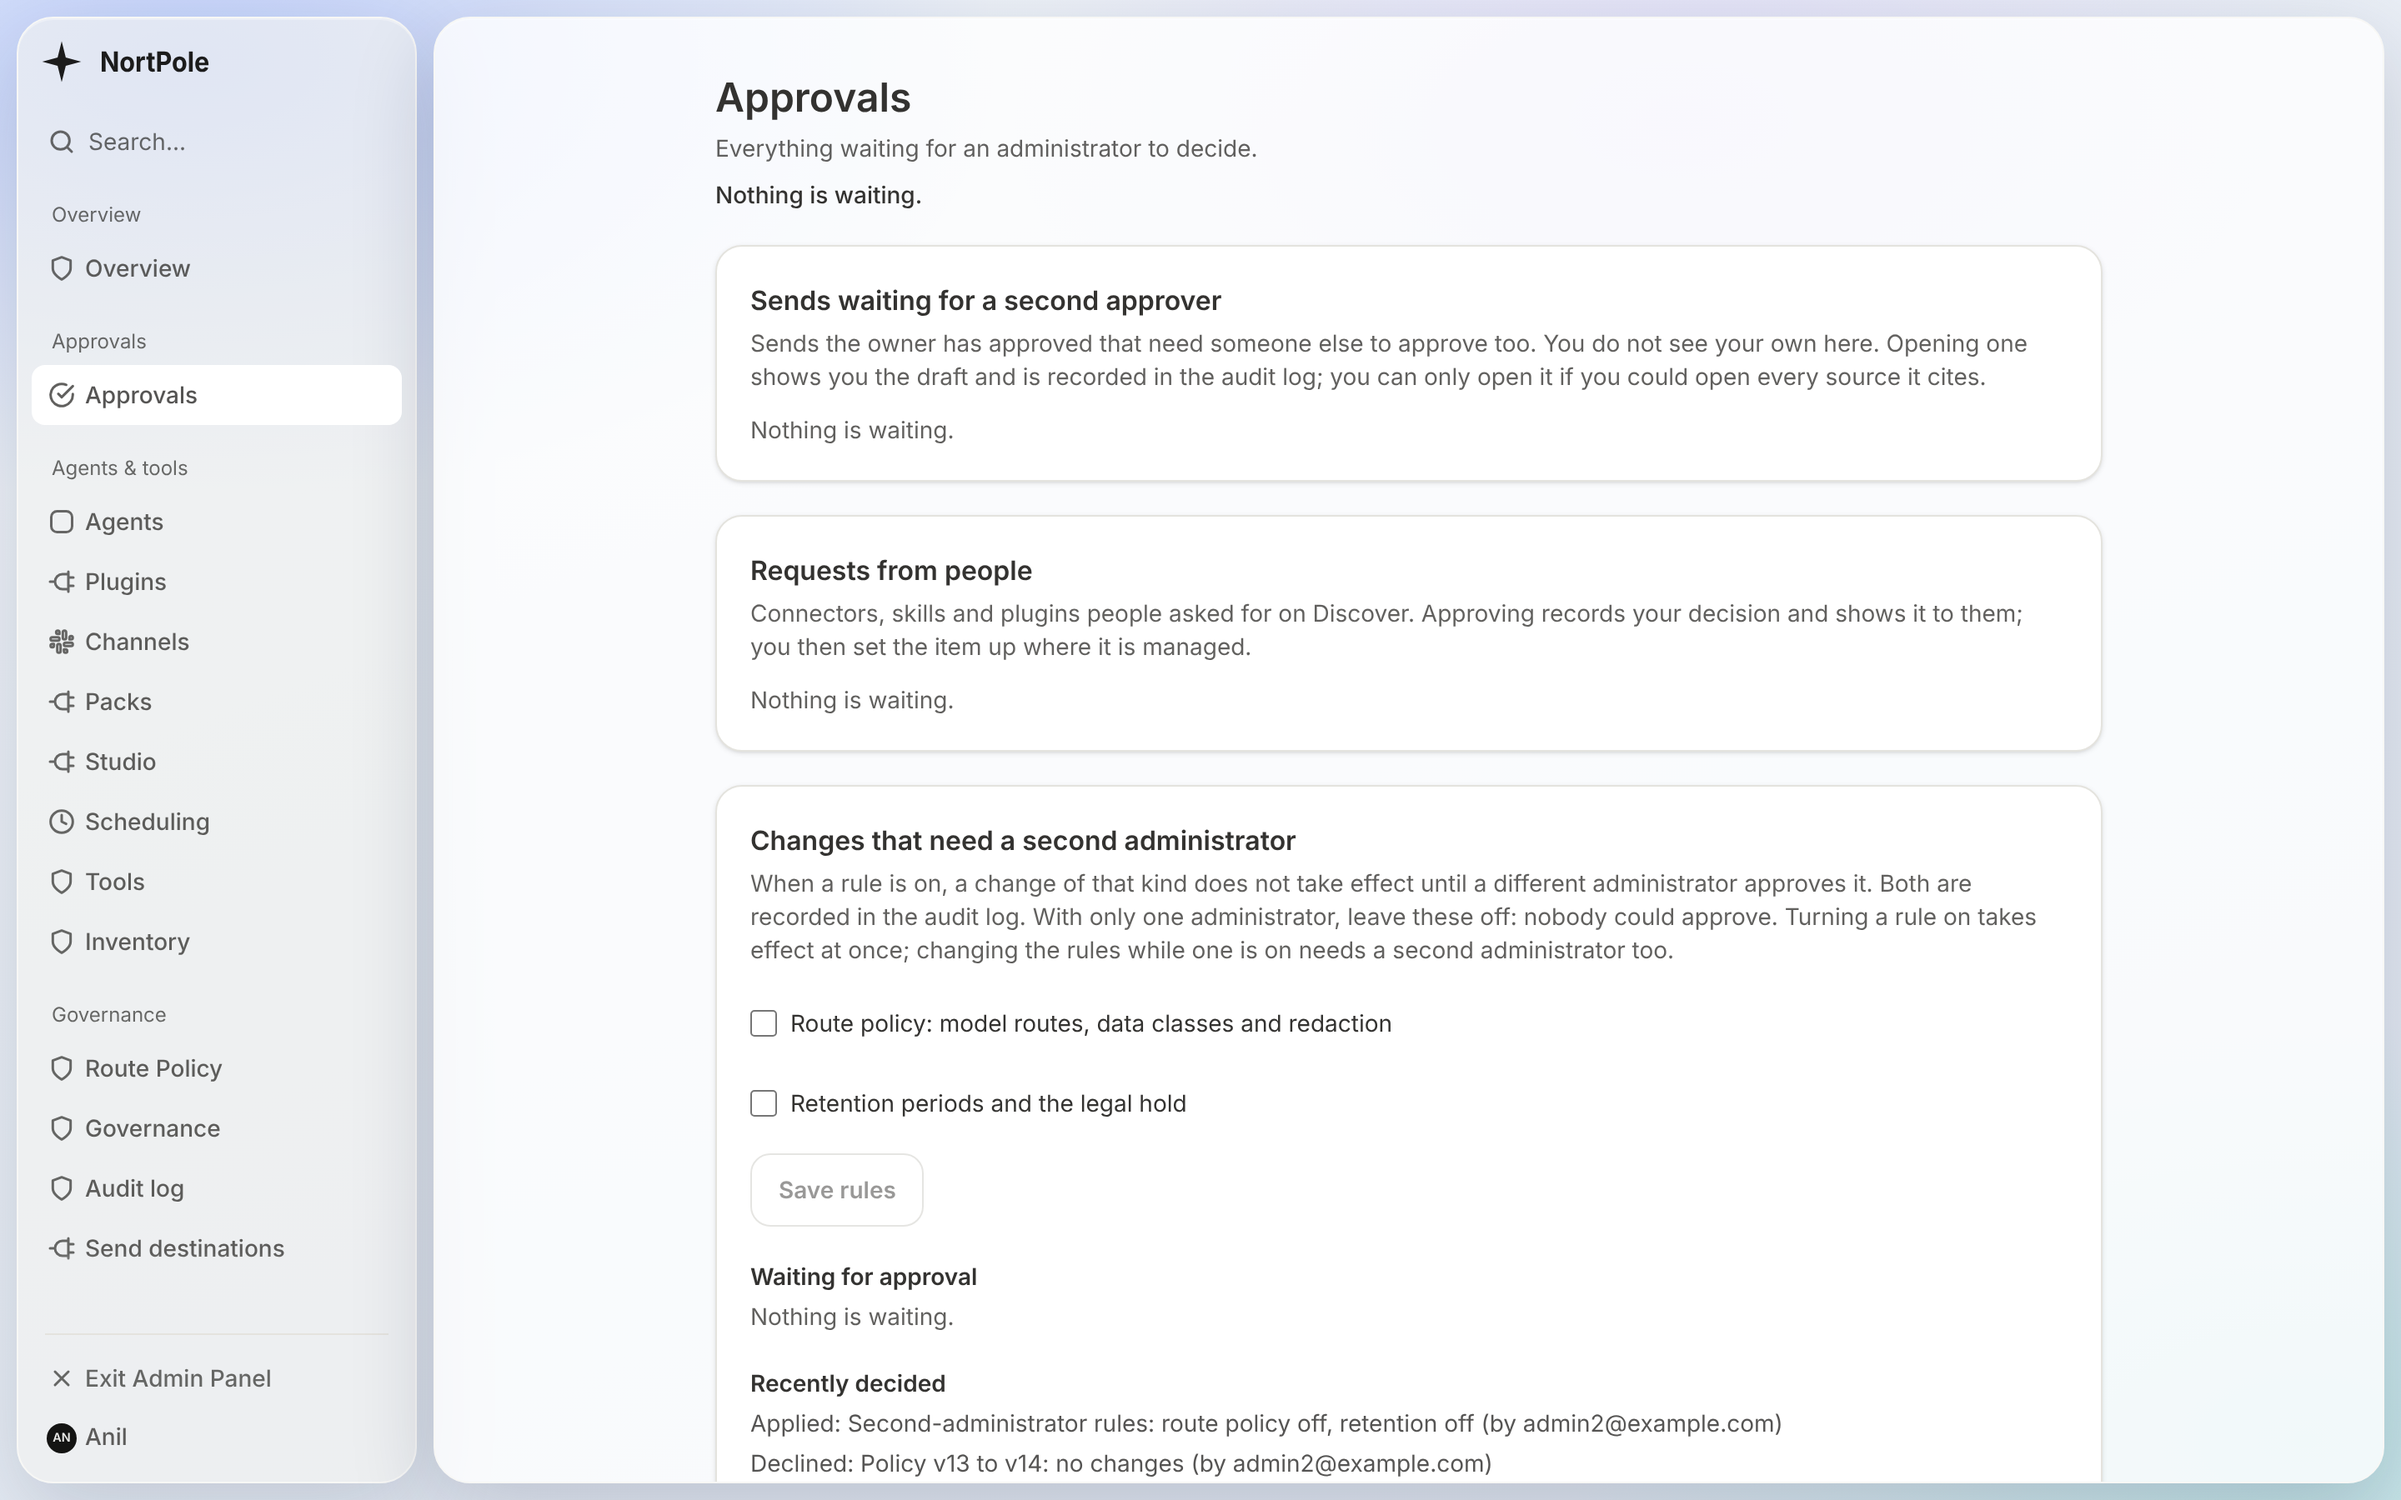
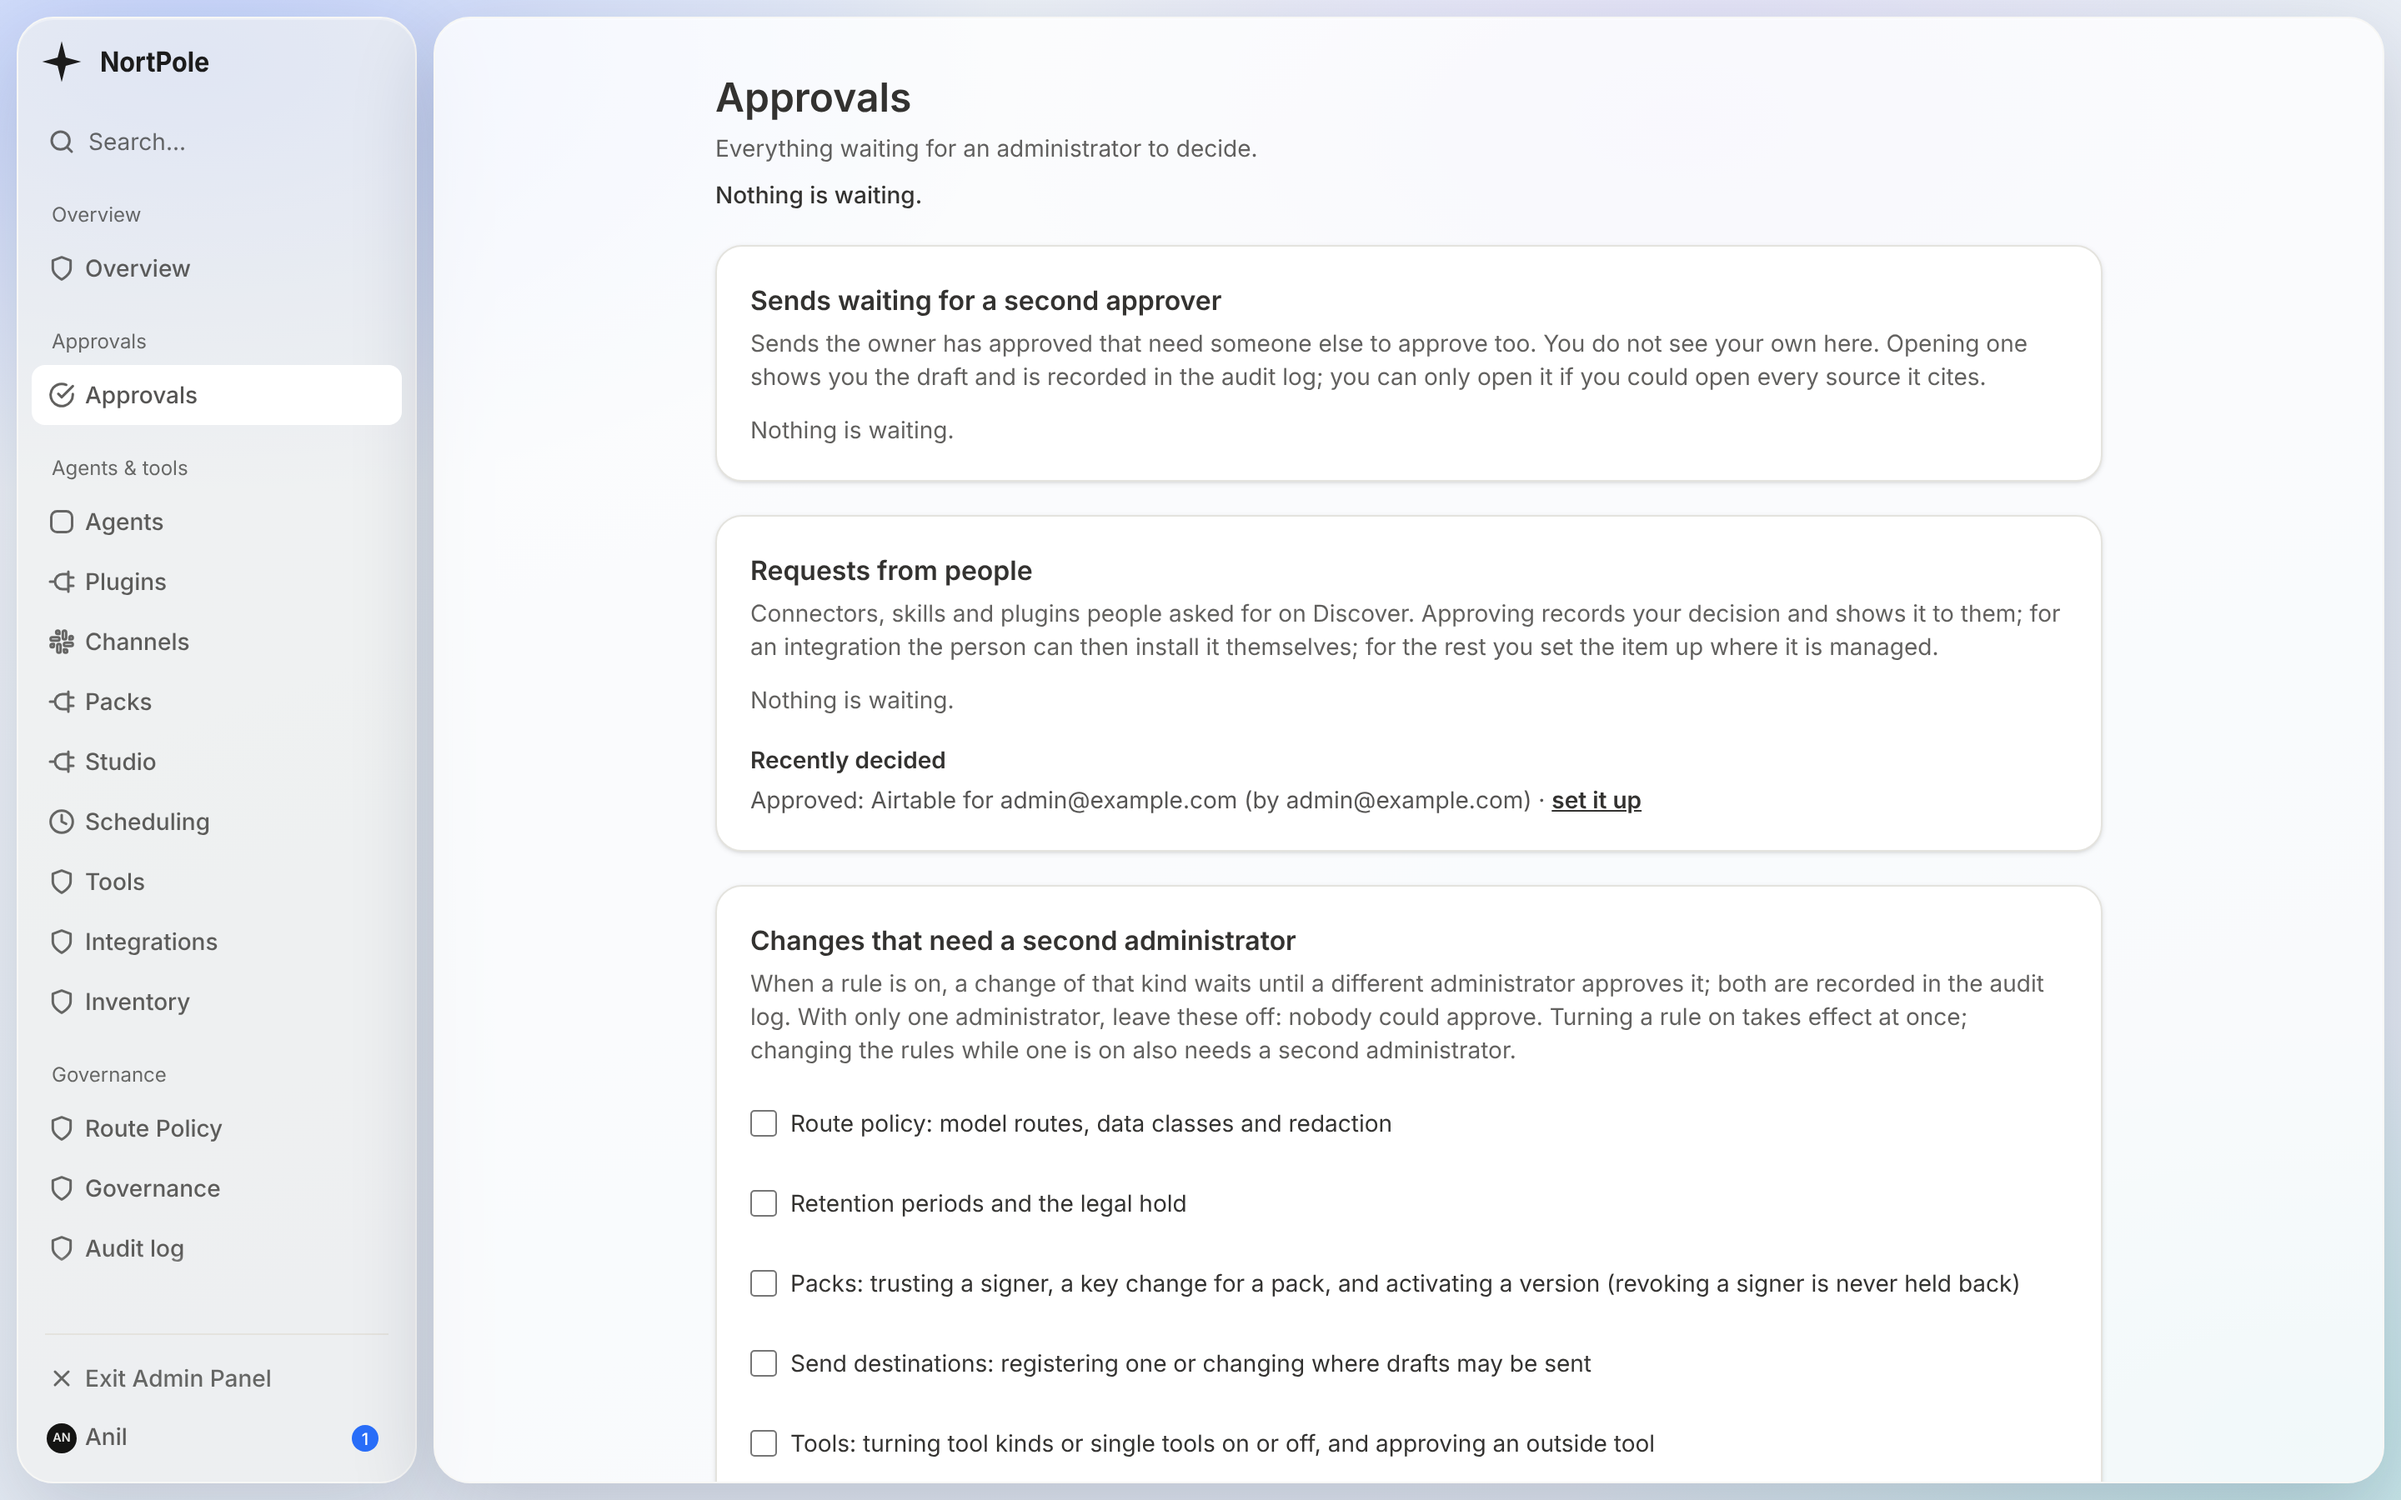
README: retake all screenshots
Claude-Session: https://claude.ai/code/session_01JwVSXEmxpPaif8GsjUPV25

diff --git a/docs/REVIEW.md b/docs/REVIEW.md
@@ -490,3 +490,7 @@ Web: removed 194 unused imports and variables across 119 inherited files (unused
 ### README brought up to date, 2026-11-17
 
 The README still said an assistant cannot call an installed integration from chat and that none of the integration definitions were checked. It now says chat reads directly and proposes writes for approval in the Inbox, lists which changes can need a second administrator, mentions pack ownership, and gives the real verification state (8 of 13 checked against the vendors' reference, 1 sent live, 4 unchecked). Not done: the screenshots other than Discover were not retaken (Approvals and Tools have changed slightly); they were not checked against the current screens.
+
+### README screenshots retaken, 2026-11-17
+
+All 11 README images were retaken from the running sandbox as an administrator (workspace, workflows, draft review, Inbox, Scheduled, Discover, Audit log, Approvals, Tools, Route policy, Quality). Approvals now shows the five second-administrator rules; Discover shows the 13 integrations with their logos; Tools shows the current wording. The sandbox's own data appears in them (mock model routes, test accounts such as admin@example.com and generated test addresses in the audit log). Not done: the images were not compared pixel by pixel with the old ones, and the audit-log shot starts below the page heading.
